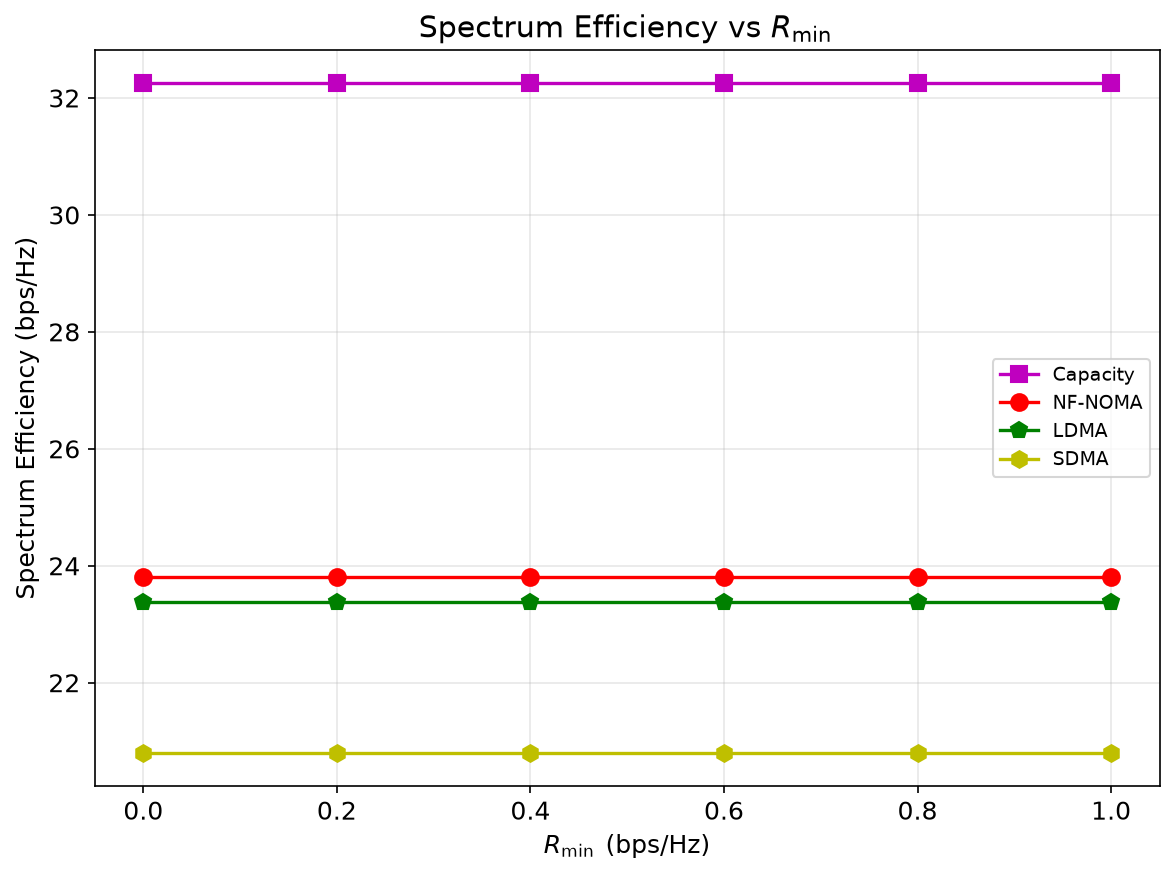
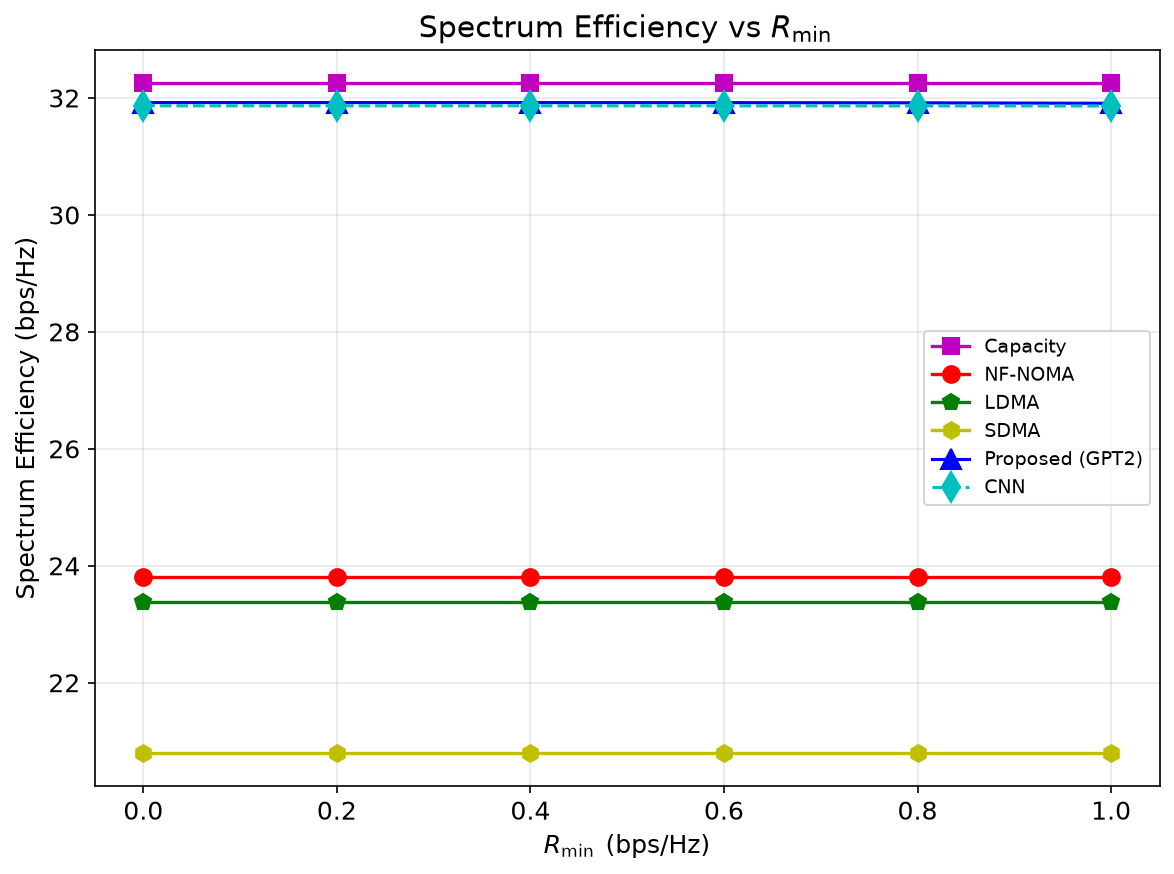
[修复] 评估协议：默认ckpt选取与Table I统一AWGN

Changed region(s): [[0.7973, 0.3707, 0.9813, 0.587], [0.092, 0.0927, 0.9506, 0.1545]]

diff --git a/eval_cnn.py b/eval_cnn.py
@@ -28,11 +28,17 @@ args = parser.parse_args()
 
 # ===================== Model loading =====================#
 def find_latest_run(gamma=0.4):
+    runs = sorted(glob.glob(os.path.join(base_output, "CNN_*")))
     if gamma == 0.4:
-        runs = sorted(glob.glob(os.path.join(base_output, "CNN_*")))
-        valid = [r for r in runs
-                 if glob.glob(os.path.join(r, '*.pth'))
-                 and 'gamma' not in os.path.basename(r)]
+        # Paper-default run: no gamma/rmin tag
+        valid = []
+        for r in runs:
+            name = os.path.basename(r).lower()
+            if not glob.glob(os.path.join(r, '*.pth')):
+                continue
+            if 'gamma' in name or 'rmin' in name:
+                continue
+            valid.append(r)
     else:
         runs = sorted(glob.glob(os.path.join(base_output, f"CNN_gamma{gamma:.1f}_*")))
         valid = [r for r in runs if glob.glob(os.path.join(r, '*.pth'))]
@@ -102,6 +108,17 @@ def eval_k(model, loader, K_eval):
     return np.mean(rates), np.mean(accs)
 
 
+def add_csi_awgn(H_flat, snr_db):
+    """Add AWGN so complex SNR = snr_db. Matches eval_gpt2.add_csi_awgn."""
+    H_4d = H_flat.reshape(*H_flat.shape[:-1], H_flat.shape[-1] // 2, 2)
+    H_complex = torch.complex(H_4d[..., 0], H_4d[..., 1])
+    p_sig = torch.mean(torch.abs(H_complex) ** 2)
+    noise_cplx_power = p_sig / (10 ** (snr_db / 10.0))
+    n_complex = (torch.randn_like(H_complex) + 1j * torch.randn_like(H_complex)) * torch.sqrt(noise_cplx_power / 2.0)
+    noise = torch.stack([n_complex.real, n_complex.imag], dim=-1).reshape_as(H_flat)
+    return H_flat + noise
+
+
 def eval_snr(model, loader, snr_db):
     criterion_rate = RateCal().to(device)
     criterion_acc = ACCLoss().to(device)
@@ -110,20 +127,10 @@ def eval_snr(model, loader, snr_db):
         for data in loader:
             H = data['H'].to(device, non_blocking=True)
             cl = data['cl'].to(device, non_blocking=True)
-            H_re = rearrange(H, 'n k W H -> n H W k', H=2)
-            H_sliced = H_re[:, :, :, :K]
-            sigma_ext = 10 ** (-snr_db / 10)
-            noise = torch.sqrt(torch.tensor(sigma_ext / 2.0)) * torch.randn_like(H_sliced)
-            noise = noise * torch.sqrt(torch.mean(torch.abs(H_sliced) ** 2))
-            H_sliced = H_sliced + noise
-            H0 = torch.zeros(H_re.shape, device=device)
-            H0[:, :, :, :K] = H_sliced
-            mean = torch.mean(H_sliced)
-            std = torch.std(H_sliced)
-            p_hat, lamda_hat, cl_hat = model(H0, cl, K, mean, std)
-            H_rate = rearrange(H0, 'n H W k -> n k (W H)')
+            H_noisy = add_csi_awgn(H, snr_db)
+            p_hat, lamda_hat, cl_hat, H_rate, _ = cnn_forward(model, H_noisy, cl, K)
             r = criterion_rate(p_hat, lamda_hat, H_rate).item()
-            a = criterion_acc(cl, torch.unsqueeze(cl_hat, dim=2)).item()
+            a = criterion_acc(cl[:, :K, :], torch.unsqueeze(cl_hat, dim=2)).item()
             rates.append(r)
             accs.append(a)
     return np.mean(rates), np.mean(accs)

diff --git a/eval_gpt2.py b/eval_gpt2.py
@@ -32,10 +32,17 @@ args = parser.parse_args()
 
 # ===================== Model loading =====================#
 def find_latest_run(gamma=0.4):
+    runs = sorted(glob.glob(os.path.join(base_output, "GPT2_*")))
     if gamma == 0.4:
-        runs = sorted(glob.glob(os.path.join(base_output, "GPT2_*")))
-        valid = [r for r in runs if glob.glob(os.path.join(r, '*.bin'))
-                 and 'gamma' not in os.path.basename(r)]
+        # Paper-default run: no gamma/rmin tag (must not pick GPT2_rmin* / GPT2_gamma*)
+        valid = []
+        for r in runs:
+            name = os.path.basename(r).lower()
+            if not glob.glob(os.path.join(r, '*.bin')):
+                continue
+            if 'gamma' in name or 'rmin' in name:
+                continue
+            valid.append(r)
     else:
         runs = sorted(glob.glob(os.path.join(base_output, f"GPT2_gamma{gamma:.1f}_*")))
         valid = [r for r in runs if glob.glob(os.path.join(r, '*.bin'))]
@@ -110,6 +117,21 @@ def eval_k(model, loader, K_eval, sigma2=None):
     return np.mean(rates), np.mean(accs), np.mean(alpha_Ns)
 
 
+def add_csi_awgn(H_flat, snr_db):
+    """Add AWGN to real/imag-concatenated channel so complex SNR = snr_db.
+
+    SNR definition: E[|H_c|^2] / E[|n_c|^2] = 10^(snr_db/10).
+    Same protocol for GPT2 and CNN Table-I evaluation.
+    """
+    H_4d = H_flat.reshape(*H_flat.shape[:-1], H_flat.shape[-1] // 2, 2)
+    H_complex = torch.complex(H_4d[..., 0], H_4d[..., 1])
+    p_sig = torch.mean(torch.abs(H_complex) ** 2)
+    noise_cplx_power = p_sig / (10 ** (snr_db / 10.0))
+    n_complex = (torch.randn_like(H_complex) + 1j * torch.randn_like(H_complex)) * torch.sqrt(noise_cplx_power / 2.0)
+    noise = torch.stack([n_complex.real, n_complex.imag], dim=-1).reshape_as(H_flat)
+    return H_flat + noise
+
+
 def eval_snr(model, loader, snr_db):
     criterion_rate = RateCal().to(device)
     criterion_acc = ACCLoss().to(device)
@@ -119,13 +141,7 @@ def eval_snr(model, loader, snr_db):
             H = data['H'].to(device, non_blocking=True)
             cl = data['cl'].to(device, non_blocking=True)
             H = rearrange(H, 'n W H a -> n W (H a)')
-            H_4d = H.reshape(*H.shape[:-1], H.shape[-1] // 2, 2)
-            H_complex = torch.complex(H_4d[..., 0], H_4d[..., 1])
-            P_signal = torch.mean(torch.abs(H_complex) ** 2).item()
-            noise_power = P_signal / (10 ** (snr_db / 10))
-            n_complex = (torch.randn_like(H_complex) + 1j * torch.randn_like(H_complex)) * (noise_power / 2.0) ** 0.5
-            noise = torch.stack([n_complex.real, n_complex.imag], dim=-1).reshape_as(H)
-            H = H + noise
+            H = add_csi_awgn(H, snr_db)
             mean = torch.mean(H)
             std = torch.std(H)
             p_hat, lamda_hat, cl_hat = model(H, cl, mean, std)

diff --git a/REPRODUCTION_STATUS.md b/REPRODUCTION_STATUS.md
@@ -264,22 +264,18 @@ GPT2/CNN：需要不同 Rmin 训练的模型才能产生下降曲线。
 验证命令：
 
 ```text
+python eval_gpt2.py --quick
+python eval_cnn.py --quick
 python plot_results.py
 ```
 
-产出：
+产出确认：
 
-```text
-figures/Fig4_beamforming_gain.png
-figures/Fig5_training_curves.png
-figures/training_curves.png
-```
-
-说明：
-
-- Fig.4 为理论计算，无需训练
-- Fig.5 使用既有 GPT2 默认参数训练日志
-- Fig.6~9 重跑 plot_results 仍从现有 JSON 生成
+- GPT2 ckpt: `GPT2_09.02_12-35-10`
+- CNN ckpt: `CNN_09.02_22-04-51`
+- K=10 rate: GPT2 31.92 / CNN 31.87
+- Table I（统一 AWGN）：GPT2 0dB 0.8466 / 20dB 0.9575；CNN 0dB 0.5763 / 20dB 0.7926
+- figures/ 已重绘
 
 ---
 
@@ -405,20 +401,29 @@ figures/training_curves.png
 
 ### 仍存在的问题清单
 
-1. **Table I @0dB**：GPT2/CNN 分类准确率偏低约 10–12 pp → BAD，低 SNR 鲁棒性不足  
-2. **Fig.8 形态**：GPT2/CNN 随 Rmin 几乎水平（Δ≈0.01），论文下降约 0.3–0.7 → 未完成  
-3. **GPT2−CNN rate 间隙**：≈0.06 vs 论文 ≈0.51 → 结构性，已诊断非简单选模/C3 标签问题  
-4. **传统 baseline**：NOMA/SDMA 相对论文低 8–20% → 已知实现差异（equal power / 码本），**不改算法硬拟合**  
+1. **Table I @0dB**：协议修复并统一 AWGN 后，GPT2 acc@0dB≈84.7%（论文 94.8%），CNN≈57.6%（论文 80.3%）→ 仍 BAD。主因：训练未用 CSI 噪声增强，非评估选错模型  
+2. **Fig.8 形态**：GPT2/CNN 随 Rmin 几乎水平（Δ≈0.01），论文下降约 0.3–0.7 → 需多 Rmin 重训  
+3. **GPT2−CNN rate 间隙**：≈0.06 vs 论文 ≈0.51 → 结构性，已诊断  
+4. **传统 baseline**：NOMA/SDMA 相对论文低 8–20% → 已知实现差异，**不改算法硬拟合**  
 5. **Fig.4/5**：Fig.4 理论形态 OK；Fig.5 100 epoch + 验证代理损失，与论文 500 epoch 不完全同口径  
 6. **Table III / Transformer**：尚未完成  
+
+### 协议修复记录（2026-09-20）
+
+- 修复 `eval_gpt2.py`/`eval_cnn.py` checkpoint 选取（排除 rmin/gamma run）
+- 统一 Table I 复数 AWGN：`E[|n|^2]=E[|H|^2]/10^(SNR/10)`
+- 重跑后 K=10 rate 不变；CNN@0dB 因噪声定义更严而下降（更诚实）
+- **未**修改论文约束、baseline 算法或为拟合曲线改 loss
 
 ### 总体判断
 
 - **Capacity、GPT2/CNN 主趋势、Fig.7 Baseline 水平线**：可写入报告，标注 WARN 级数值偏差  
-- **不能声称**与论文数值完全一致  
-- 优先待办：Fig.8 多 Rmin 重训；Table I 低 SNR；Table III  
+- **不能声称**与论文数值完全一致；Table I@0dB 与 Fig.8 形态仍不达标  
+- 若要继续逼近论文：需 CSI 噪声增强训练（Table I）与多 Rmin 重训（Fig.8），属于补实验而非改协议  
 
 ---
+
+## 状态标记说明
 
 - ✅ 已完成并验证
 - 🟡 部分完成 / 存在已知差异

diff --git a/EXPERIMENT_LOG.md b/EXPERIMENT_LOG.md
@@ -444,3 +444,45 @@ test 指标（两种选择相同）：
 `⚠`：数值偏差≠一定是代码 bug；趋势与绝对约束优先。
 
 ---
+
+## 最小改动协议修复（2026-09-20）
+
+范围：只修评估协议错误，**不改**论文约束、不改 baseline 算法定义、不为贴曲线改 loss。
+
+### 已修
+
+1. **`eval_gpt2.py` / `eval_cnn.py` checkpoint 选取**
+   - 原逻辑 `'gamma' not in name` 会选中 `GPT2_rmin0.0`
+   - 现排除 `gamma`/`rmin` 标签，优先论文默认 run
+   - 重跑确认：GPT2=`GPT2_09.02_12-35-10`，CNN=`CNN_09.02_22-04-51`
+
+2. **Table I CSI 噪声公式统一**
+   - 定义：`E[|n_c|^2] = E[|H_c|^2] / 10^(SNR_dB/10)`（复数信道 AWGN）
+   - GPT2/CNN 共用 `add_csi_awgn`
+   - 旧 CNN 公式在 0 dB 处实际约偏 3 dB（噪声偏小），准确率被抬高
+
+### 修复后重跑结果（官方默认 ckpt）
+
+**GPT2 Table I acc**：0dB 84.7% / 5dB 94.4% / 10dB 95.6% / 15dB 95.7% / 20dB 95.8%
+
+**CNN Table I acc**：0dB **57.6%** / 5dB 73.0% / 10dB 78.0% / 15dB 79.1% / 20dB 79.3%
+
+**K=10 / P=0 rate**：GPT2 31.92 / CNN 31.87 / 与此前一致 ✅
+
+### 仍偏离论文、且**不能**用评估协议修掉的项
+
+| 项 | 现象 | 原因判断 | 处理 |
+| -- | ---- | -------- | ---- |
+| Table I @0dB | GPT2 差约10pp，CNN 差约23pp | 模型仅用干净 CSI 训练，低 SNR 鲁棒性不足；论文未给训练加噪细节 | `⚠` 需加噪重训才能逼近，**禁止改数** |
+| Fig.8 形态 | 随 Rmin 几乎不下降 | 仅有 rmin=0.6 模型 | 需多 Rmin 重训 |
+| GPT2−CNN rate 间隙 | ≈0.06 vs 论文 0.51 | 结构性（已诊断） | 不违背论文硬拉 |
+| NOMA/SDMA 偏低 | −8%~−20% | 实现≠论文 WMMSE/码本 | 保持现状并标注 |
+
+### 结论
+
+- 协议类错误（选错 ckpt、SNR 定义不一致）已修复
+- Fig.6/7/9 主数值仍为 WARN 级，约束正确
+- **结果尚未全部进入 OK 带**；剩余 BAD 项属实验完成度/模型能力，不是“再改一处评估代码就能正常”
+- 与论文冲突的算法定义**未改动**
+
+---
